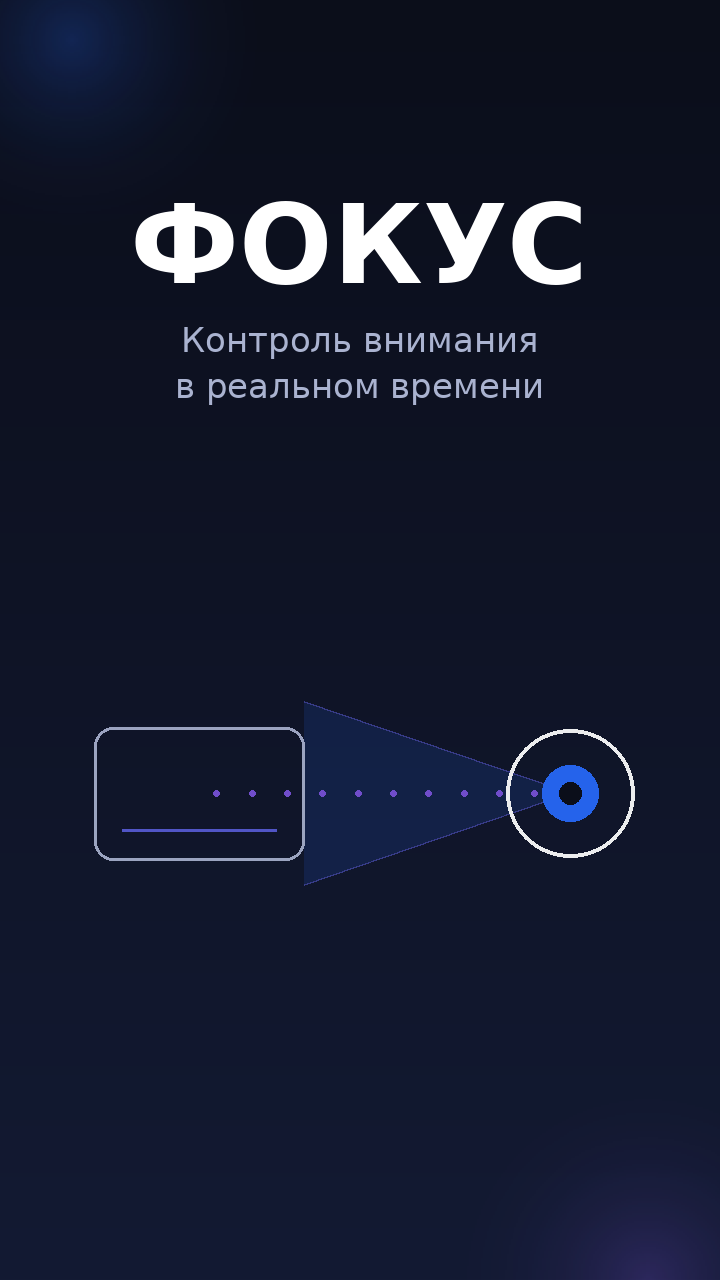
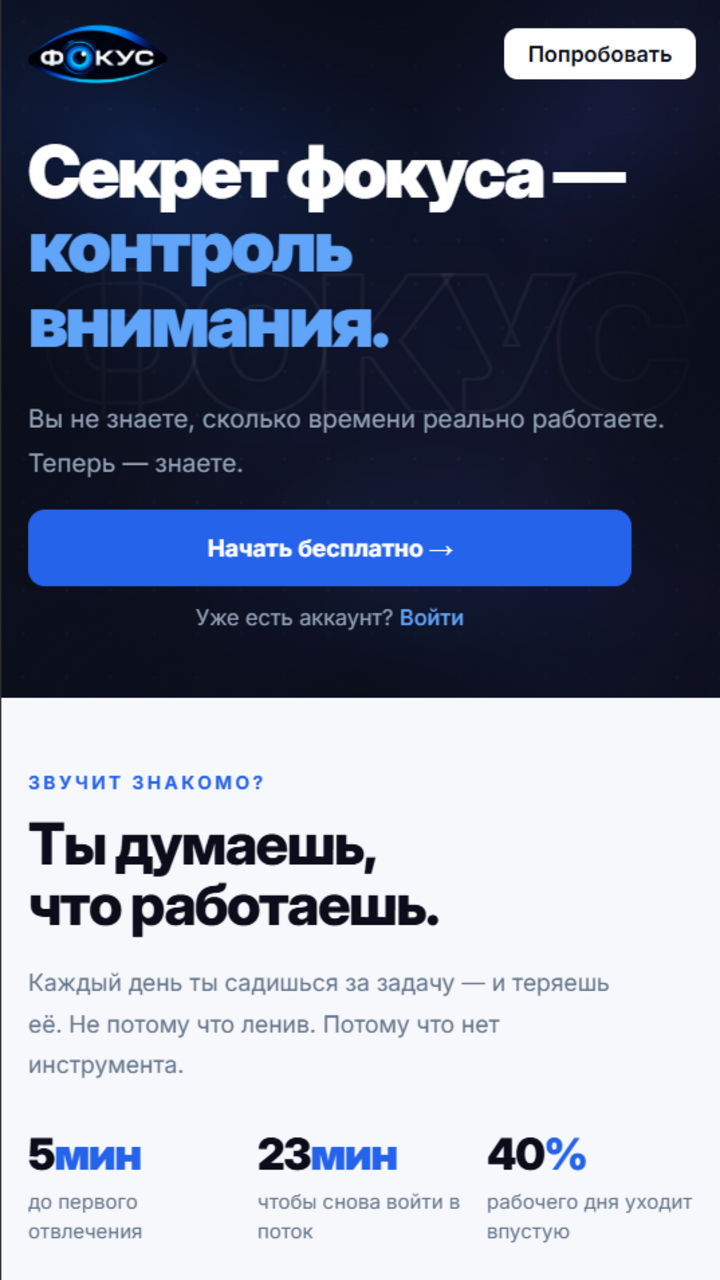
fix: SEO

diff --git a/user-service/src/frontend/public/index.html b/user-service/src/frontend/public/index.html
@@ -31,9 +31,9 @@
 <meta property="og:title"        content="ФОКУС — Контроль внимания в реальном времени" />
 <meta property="og:description"  content="Система анализирует взгляд и позу головы через камеру ноутбука. Результат — ФОКУС или ОТВЛЕЧЕНИЕ — за &lt;35 мс, без лишнего оборудования." />
 <meta property="og:url"             content="https://vas-focus.ru/" />
-<meta property="og:image"           content="https://vas-focus.ru/og-image.png" />
-<meta property="og:image:secure_url" content="https://vas-focus.ru/og-image.png" />
-<meta property="og:image:type"      content="image/png" />
+<meta property="og:image"           content="https://vas-focus.ru/og-image.jpg" />
+<meta property="og:image:secure_url" content="https://vas-focus.ru/og-image.jpg" />
+<meta property="og:image:type"      content="image/jpeg" />
 <meta property="og:image:width"     content="1200" />
 <meta property="og:image:height"    content="630" />
 <meta property="og:image:alt"       content="ФОКУС — система контроля внимания" />
@@ -42,7 +42,7 @@
 <meta name="twitter:card"        content="summary_large_image" />
 <meta name="twitter:title"       content="ФОКУС — Контроль внимания в реальном времени" />
 <meta name="twitter:description" content="Система анализирует взгляд и позу головы через камеру ноутбука. Результат за &lt;35 мс, без лишнего оборудования." />
-<meta name="twitter:image"       content="https://vas-focus.ru/og-image.png" />
+<meta name="twitter:image"       content="https://vas-focus.ru/og-image.jpg" />
 <meta name="twitter:image:alt"   content="ФОКУС — система контроля внимания" />
 
 <!-- ══ FAVICON ══ -->
@@ -106,7 +106,7 @@
         "Приватность — видеопоток не покидает устройство",
         "Латентность менее 35 мс"
       ],
-      "screenshot": "https://vas-focus.ru/og-image.png",
+      "screenshot": "https://vas-focus.ru/og-image.jpg",
       "publisher": { "@id": "https://vas-focus.ru/#org" }
     },
     {
@@ -141,7 +141,7 @@
       "inLanguage": "ru",
       "isPartOf": { "@id": "https://vas-focus.ru/#website" },
       "about": { "@id": "https://vas-focus.ru/#app" },
-      "primaryImageOfPage": { "@type": "ImageObject", "url": "https://vas-focus.ru/og-image.png" }
+      "primaryImageOfPage": { "@type": "ImageObject", "url": "https://vas-focus.ru/og-image.jpg" }
     },
     {
       "@type": "BreadcrumbList",